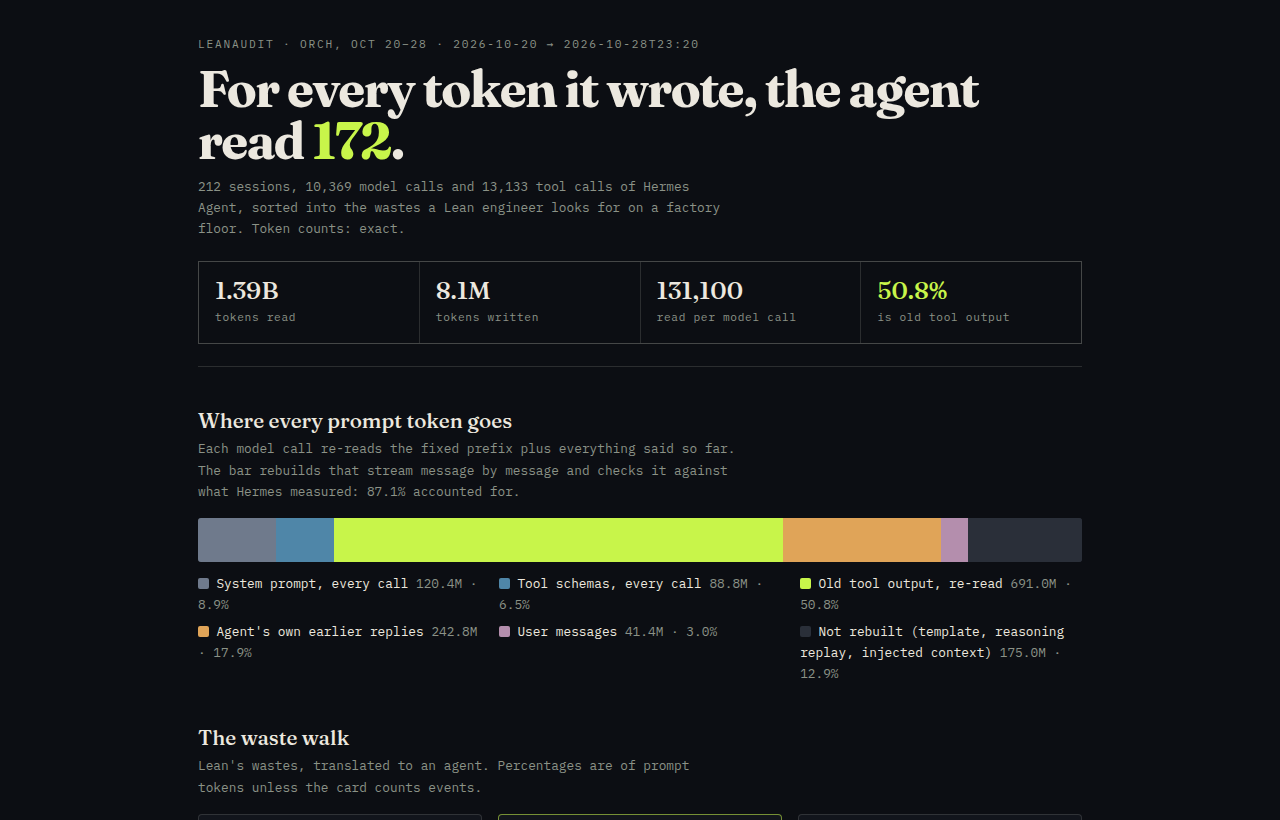
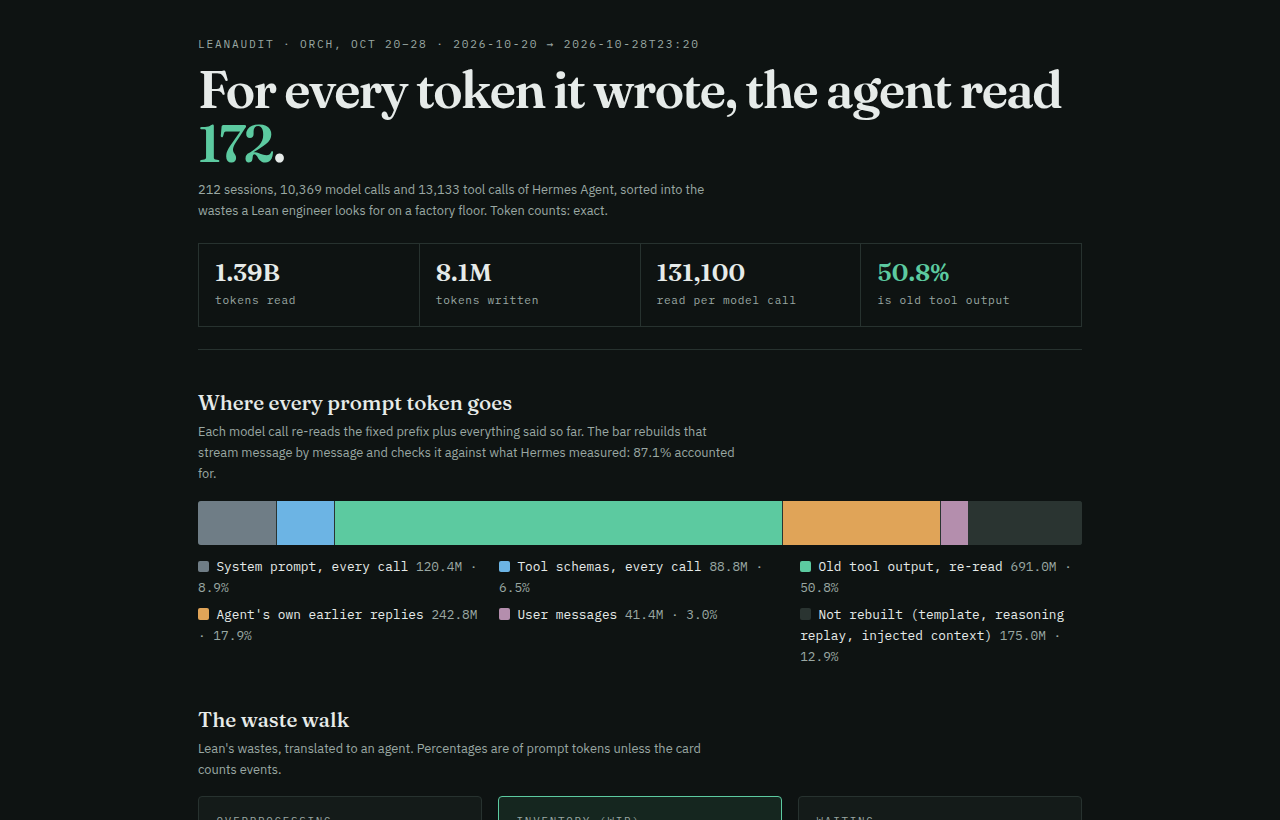
Report: match coinupbtc.xyz palette, light and dark

diff --git a/examples/house-all.html b/examples/house-all.html
@@ -4,33 +4,45 @@
 <meta charset="utf-8">
 <meta name="viewport" content="width=device-width, initial-scale=1, viewport-fit=cover">
 <title>Lean audit · Hermes house, Jun 28 – Oct 28</title>
-<meta name="color-scheme" content="dark">
+<meta name="color-scheme" content="light dark">
 <link rel="preconnect" href="https://fonts.googleapis.com">
 <link rel="preconnect" href="https://fonts.gstatic.com" crossorigin>
-<link href="https://fonts.googleapis.com/css2?family=Fraunces:opsz,wght@9..144,500;9..144,700&family=IBM+Plex+Mono:wght@400;500&display=swap" rel="stylesheet">
+<link href="https://fonts.googleapis.com/css2?family=Fraunces:opsz,wght@9..144,500;9..144,600&family=IBM+Plex+Sans:wght@400;500;600&family=IBM+Plex+Mono:wght@400;500&display=swap" rel="stylesheet">
 <style>
+  /* Palette and type match coinupbtc.xyz / coinupbtc.com (assets/lab.css): light first, dark by preference. */
   :root {
-    --ink: #0c0e13; --ink-2: #12151c; --ink-3: #1a1e27; --paper: #ece8df; --acid: #c8f54a;
-    --mute: #8b9287; --line: color-mix(in srgb, var(--paper) 14%, transparent);
-    --c-system: #6f7a8c; --c-tools: #4f86a8; --c-wip: #c8f54a; --c-asst: #e0a458; --c-user: #b48ead; --c-gap: #2a2f39;
-    --display: Fraunces, Georgia, serif; --mono: "IBM Plex Mono", ui-monospace, monospace;
+    --ink: #f5f7f6; --ink-2: #ffffff; --ink-3: #eef2f0; --paper: #14191a; --mute: #56625f;
+    --line: #d5dcda; --acid: #0b6b52; --acid-soft: #e2efea; --hot: #a6411a; --cool: #1f5f8b;
+    --c-system: #8a96a0; --c-tools: var(--cool); --c-wip: var(--acid); --c-asst: #c98a3c; --c-user: #8a6a9a; --c-gap: #cfd6d4;
+    --display: Fraunces, Georgia, serif; --sans: "IBM Plex Sans", "Segoe UI", Arial, sans-serif;
+    --mono: "IBM Plex Mono", ui-monospace, Menlo, monospace;
     --pad: clamp(1rem, 4vw, 3rem);
+    color-scheme: light;
+  }
+  @media (prefers-color-scheme: dark) {
+    :root {
+      --ink: #0e1312; --ink-2: #141b19; --ink-3: #1a2320; --paper: #e6ebe9; --mute: #9aa8a3;
+      --line: #27322f; --acid: #5ccaa0; --acid-soft: #15261f; --hot: #f08c62; --cool: #6cb4e4;
+      --c-system: #6f7d86; --c-asst: #e0a458; --c-user: #b48ead; --c-gap: #2a3431;
+      color-scheme: dark;
+    }
   }
   * { box-sizing: border-box; margin: 0; padding: 0; }
-  body { background: var(--ink); color: var(--paper); font: .92rem/1.65 var(--mono); overflow-x: hidden; }
+  body { background: var(--ink); color: var(--paper); font: .95rem/1.65 var(--sans); overflow-x: hidden; }
+  .kicker, .stat span, .card .lean, .legend, .row, table, .note, footer { font-family: var(--mono); }
   .wrap { width: min(980px, 100%); margin-inline: auto; padding: 0 var(--pad) 3rem; }
   header { padding: 2.2rem 0 1.4rem; border-bottom: 1px solid var(--line); }
   .kicker { font-size: .7rem; letter-spacing: .16em; text-transform: uppercase; color: var(--mute); }
-  h1 { font: 700 clamp(1.9rem, 6vw, 3.2rem)/1.02 var(--display); letter-spacing: -.03em; margin: .6rem 0 .5rem; }
+  h1 { font: 600 clamp(1.9rem, 6vw, 3.2rem)/1.05 var(--display); letter-spacing: -.03em; margin: .6rem 0 .5rem; }
   h1 em { font-style: normal; color: var(--acid); }
   h2 { font: 500 1.3rem/1.2 var(--display); margin: 2.6rem 0 .3rem; }
   .sub { color: var(--mute); font-size: .8rem; margin-bottom: 1rem; max-width: 70ch; }
   .stats { display: grid; grid-template-columns: repeat(auto-fit, minmax(140px, 1fr)); gap: 1px; background: var(--line); border: 1px solid var(--line); margin-top: 1.4rem; }
   .stat { background: var(--ink); padding: .9rem 1rem; }
-  .stat b { display: block; font: 500 1.55rem/1.1 var(--display); color: var(--paper); font-variant-numeric: tabular-nums; }
+  .stat b { display: block; font: 600 1.55rem/1.1 var(--display); color: var(--paper); font-variant-numeric: tabular-nums; }
   .stat span { font-size: .7rem; color: var(--mute); letter-spacing: .06em; }
   .stat.hot b { color: var(--acid); }
-  .bar { display: flex; height: 44px; width: 100%; border-radius: 3px; overflow: hidden; margin: 1rem 0 .7rem; background: var(--c-gap); }
+  .bar { display: flex; height: 44px; width: 100%; border-radius: 3px; overflow: hidden; margin: 1rem 0 .7rem; background: var(--c-gap); gap: 1px; }
   .bar div { height: 100%; min-width: 2px; transition: opacity .15s; }
   .bar div:hover { opacity: .8; }
   .legend { display: grid; grid-template-columns: repeat(auto-fit, minmax(210px, 1fr)); gap: .35rem 1.2rem; font-size: .8rem; }
@@ -39,8 +51,8 @@
   .cards { display: grid; grid-template-columns: repeat(auto-fit, minmax(270px, 1fr)); gap: 1rem; margin-top: 1rem; }
   .card { background: var(--ink-2); border: 1px solid var(--line); border-radius: 4px; padding: 1rem 1.1rem 1.1rem; }
   .card .lean { font-size: .68rem; letter-spacing: .16em; text-transform: uppercase; color: var(--mute); }
-  .card .num { font: 500 1.9rem/1.1 var(--display); margin: .35rem 0 .15rem; font-variant-numeric: tabular-nums; }
-  .card.big { border-color: color-mix(in srgb, var(--acid) 55%, transparent); }
+  .card .num { font: 600 1.9rem/1.1 var(--display); margin: .35rem 0 .15rem; font-variant-numeric: tabular-nums; }
+  .card.big { border-color: var(--acid); background: var(--acid-soft); }
   .card.big .num { color: var(--acid); }
   .card .what { font-size: .82rem; }
   .card .note { font-size: .74rem; color: var(--mute); margin-top: .5rem; }
@@ -48,7 +60,7 @@
   .row { display: grid; grid-template-columns: 9.5rem 1fr 6rem; align-items: center; gap: .8rem; font-size: .8rem; padding: .22rem 0; }
   .row .track { background: var(--ink-3); height: 14px; border-radius: 2px; overflow: hidden; }
   .row .fill { height: 100%; background: var(--acid); }
-  .row .fill.cool { background: var(--c-tools); }
+  .row .fill.cool { background: var(--cool); }
   .row .n { text-align: right; color: var(--mute); font-variant-numeric: tabular-nums; }
   .scroll { overflow-x: auto; -webkit-overflow-scrolling: touch; }
   table { border-collapse: collapse; width: 100%; min-width: 560px; margin-top: 1rem; font-size: .8rem; font-variant-numeric: tabular-nums; }

diff --git a/examples/orch-oct20-28.html b/examples/orch-oct20-28.html
@@ -4,33 +4,45 @@
 <meta charset="utf-8">
 <meta name="viewport" content="width=device-width, initial-scale=1, viewport-fit=cover">
 <title>Lean audit · orch, Oct 20–28</title>
-<meta name="color-scheme" content="dark">
+<meta name="color-scheme" content="light dark">
 <link rel="preconnect" href="https://fonts.googleapis.com">
 <link rel="preconnect" href="https://fonts.gstatic.com" crossorigin>
-<link href="https://fonts.googleapis.com/css2?family=Fraunces:opsz,wght@9..144,500;9..144,700&family=IBM+Plex+Mono:wght@400;500&display=swap" rel="stylesheet">
+<link href="https://fonts.googleapis.com/css2?family=Fraunces:opsz,wght@9..144,500;9..144,600&family=IBM+Plex+Sans:wght@400;500;600&family=IBM+Plex+Mono:wght@400;500&display=swap" rel="stylesheet">
 <style>
+  /* Palette and type match coinupbtc.xyz / coinupbtc.com (assets/lab.css): light first, dark by preference. */
   :root {
-    --ink: #0c0e13; --ink-2: #12151c; --ink-3: #1a1e27; --paper: #ece8df; --acid: #c8f54a;
-    --mute: #8b9287; --line: color-mix(in srgb, var(--paper) 14%, transparent);
-    --c-system: #6f7a8c; --c-tools: #4f86a8; --c-wip: #c8f54a; --c-asst: #e0a458; --c-user: #b48ead; --c-gap: #2a2f39;
-    --display: Fraunces, Georgia, serif; --mono: "IBM Plex Mono", ui-monospace, monospace;
+    --ink: #f5f7f6; --ink-2: #ffffff; --ink-3: #eef2f0; --paper: #14191a; --mute: #56625f;
+    --line: #d5dcda; --acid: #0b6b52; --acid-soft: #e2efea; --hot: #a6411a; --cool: #1f5f8b;
+    --c-system: #8a96a0; --c-tools: var(--cool); --c-wip: var(--acid); --c-asst: #c98a3c; --c-user: #8a6a9a; --c-gap: #cfd6d4;
+    --display: Fraunces, Georgia, serif; --sans: "IBM Plex Sans", "Segoe UI", Arial, sans-serif;
+    --mono: "IBM Plex Mono", ui-monospace, Menlo, monospace;
     --pad: clamp(1rem, 4vw, 3rem);
+    color-scheme: light;
+  }
+  @media (prefers-color-scheme: dark) {
+    :root {
+      --ink: #0e1312; --ink-2: #141b19; --ink-3: #1a2320; --paper: #e6ebe9; --mute: #9aa8a3;
+      --line: #27322f; --acid: #5ccaa0; --acid-soft: #15261f; --hot: #f08c62; --cool: #6cb4e4;
+      --c-system: #6f7d86; --c-asst: #e0a458; --c-user: #b48ead; --c-gap: #2a3431;
+      color-scheme: dark;
+    }
   }
   * { box-sizing: border-box; margin: 0; padding: 0; }
-  body { background: var(--ink); color: var(--paper); font: .92rem/1.65 var(--mono); overflow-x: hidden; }
+  body { background: var(--ink); color: var(--paper); font: .95rem/1.65 var(--sans); overflow-x: hidden; }
+  .kicker, .stat span, .card .lean, .legend, .row, table, .note, footer { font-family: var(--mono); }
   .wrap { width: min(980px, 100%); margin-inline: auto; padding: 0 var(--pad) 3rem; }
   header { padding: 2.2rem 0 1.4rem; border-bottom: 1px solid var(--line); }
   .kicker { font-size: .7rem; letter-spacing: .16em; text-transform: uppercase; color: var(--mute); }
-  h1 { font: 700 clamp(1.9rem, 6vw, 3.2rem)/1.02 var(--display); letter-spacing: -.03em; margin: .6rem 0 .5rem; }
+  h1 { font: 600 clamp(1.9rem, 6vw, 3.2rem)/1.05 var(--display); letter-spacing: -.03em; margin: .6rem 0 .5rem; }
   h1 em { font-style: normal; color: var(--acid); }
   h2 { font: 500 1.3rem/1.2 var(--display); margin: 2.6rem 0 .3rem; }
   .sub { color: var(--mute); font-size: .8rem; margin-bottom: 1rem; max-width: 70ch; }
   .stats { display: grid; grid-template-columns: repeat(auto-fit, minmax(140px, 1fr)); gap: 1px; background: var(--line); border: 1px solid var(--line); margin-top: 1.4rem; }
   .stat { background: var(--ink); padding: .9rem 1rem; }
-  .stat b { display: block; font: 500 1.55rem/1.1 var(--display); color: var(--paper); font-variant-numeric: tabular-nums; }
+  .stat b { display: block; font: 600 1.55rem/1.1 var(--display); color: var(--paper); font-variant-numeric: tabular-nums; }
   .stat span { font-size: .7rem; color: var(--mute); letter-spacing: .06em; }
   .stat.hot b { color: var(--acid); }
-  .bar { display: flex; height: 44px; width: 100%; border-radius: 3px; overflow: hidden; margin: 1rem 0 .7rem; background: var(--c-gap); }
+  .bar { display: flex; height: 44px; width: 100%; border-radius: 3px; overflow: hidden; margin: 1rem 0 .7rem; background: var(--c-gap); gap: 1px; }
   .bar div { height: 100%; min-width: 2px; transition: opacity .15s; }
   .bar div:hover { opacity: .8; }
   .legend { display: grid; grid-template-columns: repeat(auto-fit, minmax(210px, 1fr)); gap: .35rem 1.2rem; font-size: .8rem; }
@@ -39,8 +51,8 @@
   .cards { display: grid; grid-template-columns: repeat(auto-fit, minmax(270px, 1fr)); gap: 1rem; margin-top: 1rem; }
   .card { background: var(--ink-2); border: 1px solid var(--line); border-radius: 4px; padding: 1rem 1.1rem 1.1rem; }
   .card .lean { font-size: .68rem; letter-spacing: .16em; text-transform: uppercase; color: var(--mute); }
-  .card .num { font: 500 1.9rem/1.1 var(--display); margin: .35rem 0 .15rem; font-variant-numeric: tabular-nums; }
-  .card.big { border-color: color-mix(in srgb, var(--acid) 55%, transparent); }
+  .card .num { font: 600 1.9rem/1.1 var(--display); margin: .35rem 0 .15rem; font-variant-numeric: tabular-nums; }
+  .card.big { border-color: var(--acid); background: var(--acid-soft); }
   .card.big .num { color: var(--acid); }
   .card .what { font-size: .82rem; }
   .card .note { font-size: .74rem; color: var(--mute); margin-top: .5rem; }
@@ -48,7 +60,7 @@
   .row { display: grid; grid-template-columns: 9.5rem 1fr 6rem; align-items: center; gap: .8rem; font-size: .8rem; padding: .22rem 0; }
   .row .track { background: var(--ink-3); height: 14px; border-radius: 2px; overflow: hidden; }
   .row .fill { height: 100%; background: var(--acid); }
-  .row .fill.cool { background: var(--c-tools); }
+  .row .fill.cool { background: var(--cool); }
   .row .n { text-align: right; color: var(--mute); font-variant-numeric: tabular-nums; }
   .scroll { overflow-x: auto; -webkit-overflow-scrolling: touch; }
   table { border-collapse: collapse; width: 100%; min-width: 560px; margin-top: 1rem; font-size: .8rem; font-variant-numeric: tabular-nums; }

diff --git a/report_template.html b/report_template.html
@@ -4,33 +4,45 @@
 <meta charset="utf-8">
 <meta name="viewport" content="width=device-width, initial-scale=1, viewport-fit=cover">
 <title>Lean audit · __TITLE__</title>
-<meta name="color-scheme" content="dark">
+<meta name="color-scheme" content="light dark">
 <link rel="preconnect" href="https://fonts.googleapis.com">
 <link rel="preconnect" href="https://fonts.gstatic.com" crossorigin>
-<link href="https://fonts.googleapis.com/css2?family=Fraunces:opsz,wght@9..144,500;9..144,700&family=IBM+Plex+Mono:wght@400;500&display=swap" rel="stylesheet">
+<link href="https://fonts.googleapis.com/css2?family=Fraunces:opsz,wght@9..144,500;9..144,600&family=IBM+Plex+Sans:wght@400;500;600&family=IBM+Plex+Mono:wght@400;500&display=swap" rel="stylesheet">
 <style>
+  /* Palette and type match coinupbtc.xyz / coinupbtc.com (assets/lab.css): light first, dark by preference. */
   :root {
-    --ink: #0c0e13; --ink-2: #12151c; --ink-3: #1a1e27; --paper: #ece8df; --acid: #c8f54a;
-    --mute: #8b9287; --line: color-mix(in srgb, var(--paper) 14%, transparent);
-    --c-system: #6f7a8c; --c-tools: #4f86a8; --c-wip: #c8f54a; --c-asst: #e0a458; --c-user: #b48ead; --c-gap: #2a2f39;
-    --display: Fraunces, Georgia, serif; --mono: "IBM Plex Mono", ui-monospace, monospace;
+    --ink: #f5f7f6; --ink-2: #ffffff; --ink-3: #eef2f0; --paper: #14191a; --mute: #56625f;
+    --line: #d5dcda; --acid: #0b6b52; --acid-soft: #e2efea; --hot: #a6411a; --cool: #1f5f8b;
+    --c-system: #8a96a0; --c-tools: var(--cool); --c-wip: var(--acid); --c-asst: #c98a3c; --c-user: #8a6a9a; --c-gap: #cfd6d4;
+    --display: Fraunces, Georgia, serif; --sans: "IBM Plex Sans", "Segoe UI", Arial, sans-serif;
+    --mono: "IBM Plex Mono", ui-monospace, Menlo, monospace;
     --pad: clamp(1rem, 4vw, 3rem);
+    color-scheme: light;
+  }
+  @media (prefers-color-scheme: dark) {
+    :root {
+      --ink: #0e1312; --ink-2: #141b19; --ink-3: #1a2320; --paper: #e6ebe9; --mute: #9aa8a3;
+      --line: #27322f; --acid: #5ccaa0; --acid-soft: #15261f; --hot: #f08c62; --cool: #6cb4e4;
+      --c-system: #6f7d86; --c-asst: #e0a458; --c-user: #b48ead; --c-gap: #2a3431;
+      color-scheme: dark;
+    }
   }
   * { box-sizing: border-box; margin: 0; padding: 0; }
-  body { background: var(--ink); color: var(--paper); font: .92rem/1.65 var(--mono); overflow-x: hidden; }
+  body { background: var(--ink); color: var(--paper); font: .95rem/1.65 var(--sans); overflow-x: hidden; }
+  .kicker, .stat span, .card .lean, .legend, .row, table, .note, footer { font-family: var(--mono); }
   .wrap { width: min(980px, 100%); margin-inline: auto; padding: 0 var(--pad) 3rem; }
   header { padding: 2.2rem 0 1.4rem; border-bottom: 1px solid var(--line); }
   .kicker { font-size: .7rem; letter-spacing: .16em; text-transform: uppercase; color: var(--mute); }
-  h1 { font: 700 clamp(1.9rem, 6vw, 3.2rem)/1.02 var(--display); letter-spacing: -.03em; margin: .6rem 0 .5rem; }
+  h1 { font: 600 clamp(1.9rem, 6vw, 3.2rem)/1.05 var(--display); letter-spacing: -.03em; margin: .6rem 0 .5rem; }
   h1 em { font-style: normal; color: var(--acid); }
   h2 { font: 500 1.3rem/1.2 var(--display); margin: 2.6rem 0 .3rem; }
   .sub { color: var(--mute); font-size: .8rem; margin-bottom: 1rem; max-width: 70ch; }
   .stats { display: grid; grid-template-columns: repeat(auto-fit, minmax(140px, 1fr)); gap: 1px; background: var(--line); border: 1px solid var(--line); margin-top: 1.4rem; }
   .stat { background: var(--ink); padding: .9rem 1rem; }
-  .stat b { display: block; font: 500 1.55rem/1.1 var(--display); color: var(--paper); font-variant-numeric: tabular-nums; }
+  .stat b { display: block; font: 600 1.55rem/1.1 var(--display); color: var(--paper); font-variant-numeric: tabular-nums; }
   .stat span { font-size: .7rem; color: var(--mute); letter-spacing: .06em; }
   .stat.hot b { color: var(--acid); }
-  .bar { display: flex; height: 44px; width: 100%; border-radius: 3px; overflow: hidden; margin: 1rem 0 .7rem; background: var(--c-gap); }
+  .bar { display: flex; height: 44px; width: 100%; border-radius: 3px; overflow: hidden; margin: 1rem 0 .7rem; background: var(--c-gap); gap: 1px; }
   .bar div { height: 100%; min-width: 2px; transition: opacity .15s; }
   .bar div:hover { opacity: .8; }
   .legend { display: grid; grid-template-columns: repeat(auto-fit, minmax(210px, 1fr)); gap: .35rem 1.2rem; font-size: .8rem; }
@@ -39,8 +51,8 @@
   .cards { display: grid; grid-template-columns: repeat(auto-fit, minmax(270px, 1fr)); gap: 1rem; margin-top: 1rem; }
   .card { background: var(--ink-2); border: 1px solid var(--line); border-radius: 4px; padding: 1rem 1.1rem 1.1rem; }
   .card .lean { font-size: .68rem; letter-spacing: .16em; text-transform: uppercase; color: var(--mute); }
-  .card .num { font: 500 1.9rem/1.1 var(--display); margin: .35rem 0 .15rem; font-variant-numeric: tabular-nums; }
-  .card.big { border-color: color-mix(in srgb, var(--acid) 55%, transparent); }
+  .card .num { font: 600 1.9rem/1.1 var(--display); margin: .35rem 0 .15rem; font-variant-numeric: tabular-nums; }
+  .card.big { border-color: var(--acid); background: var(--acid-soft); }
   .card.big .num { color: var(--acid); }
   .card .what { font-size: .82rem; }
   .card .note { font-size: .74rem; color: var(--mute); margin-top: .5rem; }
@@ -48,7 +60,7 @@
   .row { display: grid; grid-template-columns: 9.5rem 1fr 6rem; align-items: center; gap: .8rem; font-size: .8rem; padding: .22rem 0; }
   .row .track { background: var(--ink-3); height: 14px; border-radius: 2px; overflow: hidden; }
   .row .fill { height: 100%; background: var(--acid); }
-  .row .fill.cool { background: var(--c-tools); }
+  .row .fill.cool { background: var(--cool); }
   .row .n { text-align: right; color: var(--mute); font-variant-numeric: tabular-nums; }
   .scroll { overflow-x: auto; -webkit-overflow-scrolling: touch; }
   table { border-collapse: collapse; width: 100%; min-width: 560px; margin-top: 1rem; font-size: .8rem; font-variant-numeric: tabular-nums; }
